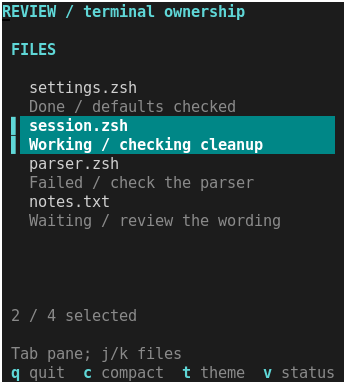
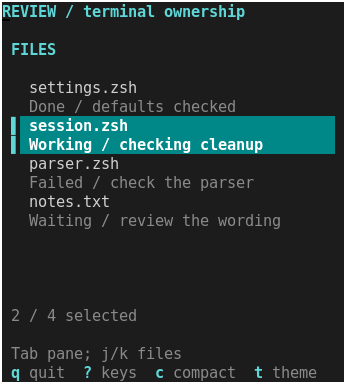
Keep review shortcuts discoverable with a scrollable key reference

diff --git a/tests/test_review_composition.py b/tests/test_review_composition.py
@@ -1,5 +1,7 @@
 """Components share selection/theme while the application owns input and layout."""
 import unittest
+import os
+import termios
 from test_compositions import RecipeSession
 
 
@@ -111,5 +113,63 @@ class ReviewCompositionTests(unittest.TestCase):
             self.assertEqual(f[12:14], ['2', '1'])
             self.assertEqual(f[3:8], before[3:8])
             s.finish()
+        finally:
+            s.close()
+
+    def test_key_reference_preserves_review_and_reaches_every_key(self):
+        s = RecipeSession(self, 'dark', fixture='review-composition.zsh')
+        try:
+            s.advance()
+            s.advance(b'\t')
+            s.advance(size=(18, 38))
+            s.advance(b'j')
+            s.advance(b'l')
+            before = s.advance(b't')
+            f = s.advance(b'?')
+            self.assertEqual(f[15], '1')
+            self.assertIn('KEYS / review', self.screen(f))
+            self.assertEqual(f[3:15], before[3:15])
+            f = s.advance(size=(11, 26))
+            seen = self.screen(f)
+            for _ in range(5):
+                f = s.advance(b'j')
+                seen += self.screen(f)
+                self.assertEqual(f[3:15], before[3:15])
+            for word in ('Switch pane', 'Move file or row', 'Pan change text',
+                         'Leftmost text', 'Compact status', 'Switch theme',
+                         'Status emphasis', 'Monochrome', 'Empty sample',
+                         'Quit review', 'Show these keys'):
+                self.assertIn(word, seen)
+            self.assertEqual(f[16], '6')
+            self.assertEqual(s.advance(b'j')[16], '6')
+            self.assertEqual(s.advance(b'\x1bOA')[16], '5')
+            f = s.advance(size=(1, 12))
+            self.assertEqual(f[15], '1')
+            s.advance(size=(18, 38))
+            f = s.advance(b'\x1b')
+            self.assertEqual(f[15], '0')
+            self.assertEqual(f[3:15], before[3:15])
+            self.assertNotIn('KEYS / review', self.screen(f))
+            s.advance(b'?')
+            # Review controls are ignored while the reference owns input.
+            f = s.advance(b'etc?')
+            self.assertEqual(f[3:15], before[3:15])
+            s.finish()
+        finally:
+            s.close()
+
+    def test_quit_from_initial_key_reference(self):
+        s = RecipeSession(self, 'keys', fixture='review-composition.zsh', term='vt100')
+        try:
+            f = s.advance()
+            self.assertEqual(f[15], '1')
+            self.assertEqual(f[10], 'mono')
+            self.assertTrue(self.screen(f).isascii())
+            self.assertIn('Show these keys', self.screen(f))
+            self.assertEqual(s.advance(b'q'), ['done'])
+            self.assertEqual(termios.tcgetattr(s.terminal), s.baseline)
+            _, result = os.waitpid(s.pid, 0)
+            s.reaped = True
+            self.assertEqual(os.waitstatus_to_exitcode(result), 0)
         finally:
             s.close()

diff --git a/scripts/capture-design-study.py b/scripts/capture-design-study.py
@@ -97,6 +97,8 @@ def capture(output, example='design-study'):
             ]
         if example == 'review-composition':
             scenarios = [
+                ('keys', 'dark', 'ready', '80x24', 'list', 'auto'),
+                ('keys-narrow', 'dark', 'ready', '26x11', 'list', 'auto'),
                 ('dark', 'dark', 'ready', '120x28', 'list', 'auto'),
                 ('compact', 'dark', 'ready', '120x28', 'list', 'auto'),
                 ('short', 'dark', 'ready', '38x11', 'detail', 'auto'),
@@ -119,6 +121,8 @@ def capture(output, example='design-study'):
                            str(ROOT / 'scripts/design-study-frame.zsh'), str(directory), focus]
                 if example in ('linked-detail', 'change-gutter', 'status-strip', 'review-composition'):
                     command += ['--example', example, '--theme', design, '--profile', profile]
+                    if example == 'review-composition' and name in ('keys', 'keys-narrow'):
+                        command += ['--keys']
                     if name == 'compact':
                         command += ['--compact'] if example in ('status-strip', 'review-composition') else ['--item-gap', '0']
                     if example == 'status-strip':

diff --git a/docs/recipes/review-composition.md b/docs/recipes/review-composition.md
@@ -25,6 +25,7 @@ After the [normal build](../building.md), from the repository root:
 .build/zsh/Src/zsh -df examples/review-composition.zsh
 .build/zsh/Src/zsh -df examples/review-composition.zsh --theme light
 .build/zsh/Src/zsh -df examples/review-composition.zsh --compact
+.build/zsh/Src/zsh -df examples/review-composition.zsh --keys
 .build/zsh/Src/zsh -df examples/review-composition.zsh --profile mono --ascii
 ```
 
@@ -40,6 +41,13 @@ After the [normal build](../building.md), from the repository root:
 | `m` | Toggle monochrome within terminal capabilities |
 | `e` | Toggle empty sample data; restoring selects the first file |
 | `q` / Escape | Quit and restore terminal state |
+| `?` | Open the complete key reference |
+
+In the key reference, `j`/`k` or Up/Down scroll the keys, `?` or Escape returns
+to the review, and `q` quits. Other review controls are ignored there. The
+reference retains the review's selection, focus, styling and offsets; when you
+return after resizing, normal viewport clamping still applies. `--keys` starts
+with the reference open.
 
 Selecting another file resets its review offsets. Switching focus, theme or
 local styling preserves selection and offsets. Resize preserves them subject to
@@ -122,7 +130,10 @@ output contract.
 The example repeats the established session/input boilerplate from the smaller
 studies. That makes it independently runnable; this exercise does not justify a
 new application framework. Long text still clips or scrolls, and footer hints
-can omit trailing options on narrow terminals. The table above lists every key.
+can omit trailing options on narrow terminals. The footer puts `? keys` beside
+quit so the full reference remains discoverable at the example's minimum width.
+It uses existing help rows, with one key/description pair per row and its own
+scroll position. It needs no modal component or changes to the libraries.
 
 ## Visual and interaction evidence
 
@@ -131,11 +142,13 @@ can omit trailing options on narrow terminals. The table above lists every key.
 Compare [compact at the same width and height](../review-composition/compact.png),
 [11-row terminal](../review-composition/short.png),
 [light](../review-composition/light.png),
+[complete key reference](../review-composition/keys.png),
+[narrow key reference](../review-composition/keys-narrow.png),
 [narrow file list](../review-composition/narrow-list.png),
 [monochrome](../review-composition/mono.png),
 [local status emphasis](../review-composition/variant.png) and
 [empty data](../review-composition/empty.png).
-All nine are actual xterm captures. Font, options, dimensions and hashes for
+All eleven are actual xterm captures. Font, options, dimensions and hashes for
 the example, all three components and module are recorded in
 [captures.json](../review-composition/captures.json).
 
@@ -148,8 +161,11 @@ PTY checks exercise file/status/content correspondence, unknown totals, focus,
 scrolling, horizontal panning, local styling, theme changes, density and its
 two-row gain, automatic compact layout, narrow/tiny resize,
 empty-data clearing, basic/monochrome fallback and terminal restoration.
-The full suite passed all 147 tests against the locally built Zsh 5.9.2 shell
-and matching module after the density change.
+The key-reference checks also cover reaching every shortcut at minimum review
+size, input isolation, return to the same reading position, tiny resize and
+quitting directly from the reference with terminal settings restored.
+The full suite passed all 149 tests against the locally built Zsh 5.9.2 shell
+and matching module after the key-reference change.
 
 This demonstrates reuse and records the required application glue. It makes no
 new performance or comparative visual-quality claim. Stop here for review of

diff --git a/docs/choose-and-combine.md b/docs/choose-and-combine.md
@@ -21,6 +21,8 @@ explains the complete application and all controls.
 Use `c` or start it with `--compact` to give the changes two more rows. This
 omits the status explanation and its gap; below 18 terminal rows the example
 selects that layout automatically.
+Press `?` for the complete key reference when footer hints do not fit. It
+scrolls independently, and `?` or Escape returns to the review.
 
 ## Choose by the job
 
